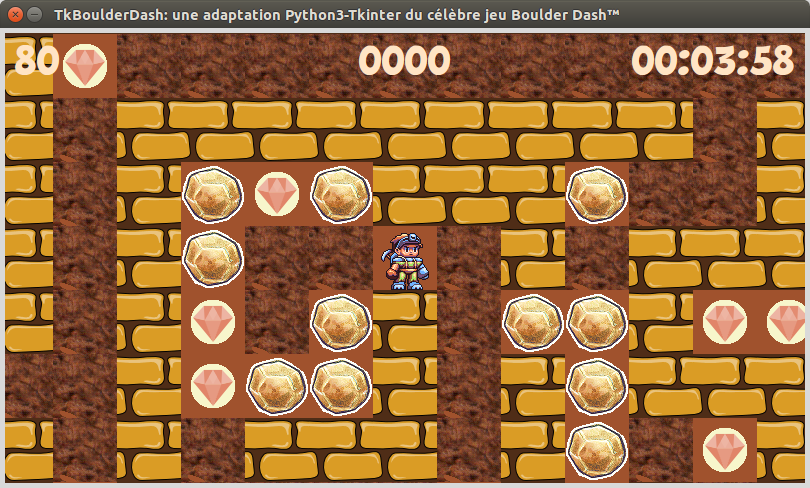
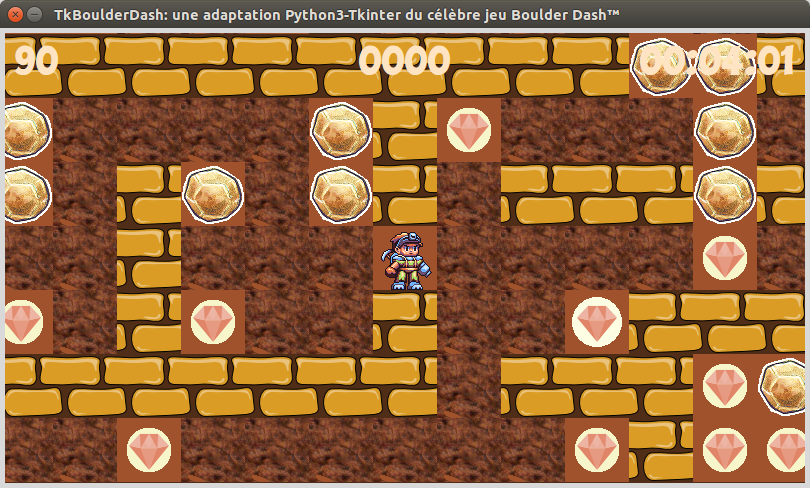
updated screenshots

diff --git a/lib/game_play.py b/lib/game_play.py
@@ -85,7 +85,7 @@ class GamePlay:
             "<Key>": self.on_key_pressed,
         }
 
-        #~ self.level = 4 # debugging
+        #~ self.level = 5 # debugging
 
     # end def
 
